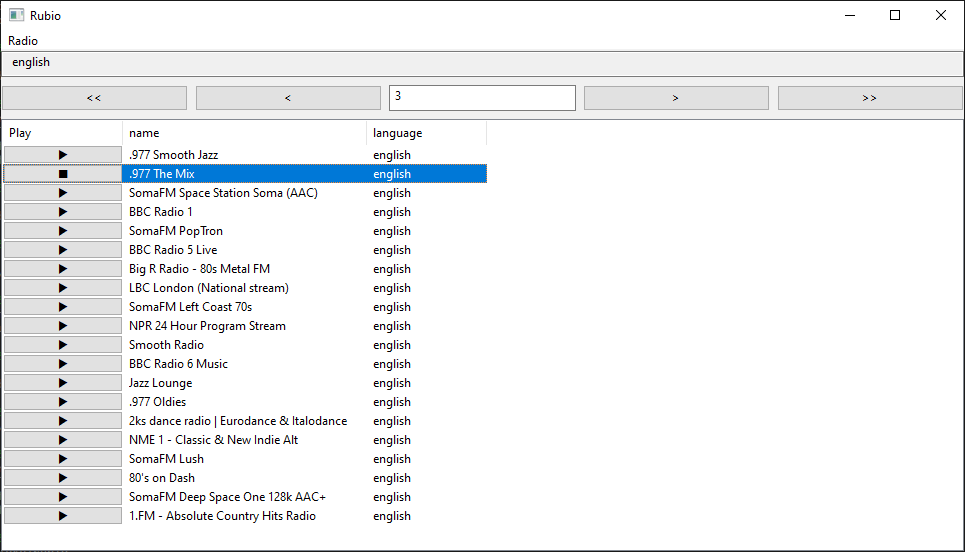
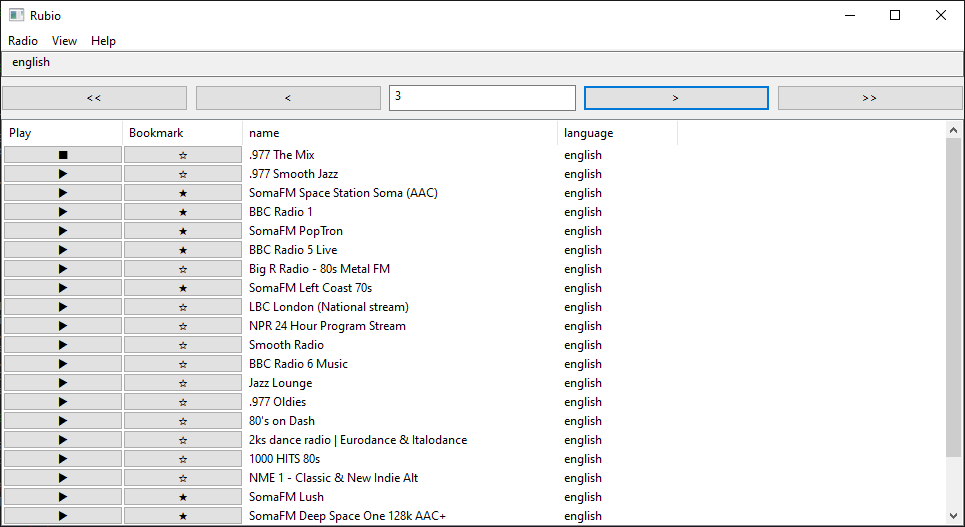
Command option `--gradual` to load radio stations gradually thus prevent user from waiting for app to start

Changed region(s): [[0.0, 0.0, 1.0, 1.0]]

diff --git a/lib/rubio/view/radio.rb b/lib/rubio/view/radio.rb
@@ -16,13 +16,16 @@ module Rubio
       option :show_menu, default: true
       option :show_page_count, default: false
       option :show_bookmarks, default: true
+      option :gradually_fetch_stations, default: true
       option :table_per_page, default: 20
   
       attr_reader :stations, :player
       attr_accessor :current_station, :view
   
       before_body do
-        @stations = Model::RadioBrowser.topvote(radio_station_count)
+        @loaded_station_count = [gradually_fetch_stations ? 100 : radio_station_count, radio_station_count].min
+        @loaded_station_offset = 0
+        @stations = Model::RadioBrowser.topvote(@loaded_station_count, offset: @loaded_station_offset)
         @player = Model::Player.new(backend)
         @initial_width = (initial_width || (show_bookmarks ? 740 : 620)).to_i
         @initial_height = (initial_height || calculate_initial_height).to_i
@@ -31,6 +34,7 @@ module Rubio
       
       after_body do
         monitor_thread(debug)
+        async_fetch_stations if gradually_fetch_stations && @stations.count < radio_station_count
       end
   
       body do
@@ -190,7 +194,7 @@ module Rubio
   
       def about_message_box
         license = begin
-          File.read(File.expand_path('../../LICENSE.txt', __dir__))
+          File.read(File.expand_path('../../../LICENSE.txt', __dir__))
         rescue StandardError
           ''
         end
@@ -243,6 +247,17 @@ module Rubio
       def view_playing
         @station_table.model_array = stations.select(&:playing?)
       end
+      
+      def refresh_view
+        case view
+        when :all
+          view_all
+        when :bookmarks
+          view_bookmarks
+        when :playing
+          view_playing
+        end
+      end
   
       private
   
@@ -266,6 +281,20 @@ module Rubio
           message_box("player '#{@player.backend}' stopped!", @player.thr.to_s)
           stop_station
           true
+        end
+      end
+      
+      def async_fetch_stations
+        @loaded_station_offset += @loaded_station_count
+        @loaded_station_count *= 2
+        Thread.new do
+          new_station_count = [@loaded_station_count, radio_station_count - @loaded_station_offset].min
+          @stations += Model::RadioBrowser.topvote(new_station_count, offset: @loaded_station_offset)
+
+          Glimmer::LibUI.queue_main do
+            refresh_view
+            async_fetch_stations if @stations.count < radio_station_count
+          end
         end
       end
     end

diff --git a/lib/rubio/model/bookmark.rb b/lib/rubio/model/bookmark.rb
@@ -6,24 +6,28 @@ require 'yaml'
 module Rubio
   module Model
     module Bookmark
-      DIR_RUBIO_RADIO = File.join(Dir.home, '.ruby-radio')
+      DIR_RUBIO_RADIO = File.join(Dir.home, '.rubio-radio')
       FileUtils.mkdir_p(DIR_RUBIO_RADIO)
       FILE_RUBIO_RADIO_BOOKMARKS = File.join(DIR_RUBIO_RADIO, 'bookmarks.yml')
       FileUtils.touch(FILE_RUBIO_RADIO_BOOKMARKS)
       
       class << self
         def add(stationuuid)
-          all << stationuuid
-          save_all
+          unless all.include?(stationuuid)
+            all << stationuuid
+            save_all
+          end
         end
         
         def remove(stationuuid)
-          all.delete(stationuuid)
-          save_all
+          if all.include?(stationuuid)
+            all.delete(stationuuid)
+            save_all
+          end
         end
         
         def all
-          @all ||= load_all
+          @all ||= load_all || []
         end
       
         def save_all

diff --git a/lib/rubio/model/radio_browser.rb b/lib/rubio/model/radio_browser.rb
@@ -15,8 +15,8 @@ module Rubio
         'http://all.api.radio-browser.info/json/'
       end
   
-      def topvote(n = 100)
-        content = URI.parse(base_url + "stations/topvote/#{n}")
+      def topvote(n = 100, offset: 0)
+        content = URI.parse(base_url + "stations/topvote/#{n}?offset=#{offset}")
         result = []
         JSON[content.read].each_with_index do |s, i|
           result << Station.new(s['stationuuid'], s['name'], s['language'], s['url_resolved'])

diff --git a/README.md b/README.md
@@ -51,6 +51,12 @@ The top 10,000 [Radio Browser](https://www.radio-browser.info/) stations are dis
 rubio --count 20000
 ```
 
+The stations are fetched gradually (asynchronously) from the [Radio Browser](https://www.radio-browser.info/) web API to have the app start instantly (avoid having the user wait for the app to start) no matter what the total count of stations is. But, you can avoid gradual prefetching if you prefer.
+
+```
+rubio --no-gradual
+```
+
 Default player is `vlc -I dummy`. But, you can use any command line player that can take URL of radio station as its first argument.
 
 ```
@@ -70,10 +76,12 @@ Usage: rubio [options]
     -b, --backend STR       command to use as backend player ['vlc -I dummy']
     -c, --count INT         number of stations to fetch from radio-browser [10000]
         --per-page INT      number of stations per page [20]
-        --[no-]page-count   show/hide page count
     -w, --width INT         main window width
     -h, --height INT        main window height
-        --[no-]menu         show/hide menu
+        --[no-]page-count   show/hide page count [false]
+        --[no-]menu         show/hide menu [true]
+        --[no-]bookmarks    show/hide bookmarks [true]
+        --[no-]gradual      gradually/non-gradually fetch stations [true]
         --debug             output status of monitored threads
         --help              show this help message
         --version           show the rubio version number
@@ -87,10 +95,10 @@ rubio --mpg123           # `rubio --backend mpg123`
 rubio --count 1000       # Displays the top 1,000 Radio Browser stations
 ```
 
-Small Screen Example:
+Minimalistic Example:
 
 ```
-rubio --per-page 6 --no-menu
+rubio --per-page 6 --no-menu --no-bookmarks
 ```
 
 ![small screen linux screenshot](screenshots/rubio-radio-linux-example-small.png)
@@ -102,6 +110,14 @@ rubio --page-count
 ```
 
 ![page count mac screenshot](screenshots/rubio-radio-mac-example-page-count.png)
+
+### Menus
+
+You can use the top menu bar to stop the currently playing radio station, bookmark, unbookmark, view only bookmarked stations, view only currently playing station, and read the about dialog.
+
+![view book marks mac screenshot](screenshots/rubio-radio-mac-example-view-bookmarks.png)
+
+Bookmarks are stored in `File.join(Dir.home, '.rubio-radio', 'bookmarks.yml')`
 
 ## Links
 

diff --git a/TODO.md b/TODO.md
@@ -1,8 +1,5 @@
 # TODO
 
-- Fetch radio stations gradually to avoid making user wait for app to start
-
-
 - Support OR-based FTS (Full-Text-Search) queries by treating multiple words as WORD1 OR WORD2, etc...
 - Support exact FTS (Full-Text-Search) queries using double-quotes (e.g. "WORD1 WORD2")
 - Support column-based queries by prefixing query term with column name + colon (e.g. "language:english"), which can be combined with FTS queries (e.g. "jazz language:english"). Also, there is no need to enter all of the column letters, yet only the first few letters that distinguish it from other columns (e.g. "jazz l:english")

diff --git a/CHANGELOG.md b/CHANGELOG.md
@@ -5,7 +5,8 @@
 - Upgrade to glimmer-dsl-libui v0.5.20
 - Add/Remove currently playing radio station to bookmarks (remembered across app restarts by storing station UUID in a YAML file locally)
 - View menu with "All", "Bookmarks", and "Playing" View menu items
-- Command option `--no-bookmarks` to avoid showing bookmarks in table
+- Command option `--[no-]bookmarks` to show/hide bookmarks in table
+- Command option `--[no-]gradual` to load radio stations gradually (preventing user from waiting for app to start) or avoid loading gradually
 
 ## 0.0.4
 
